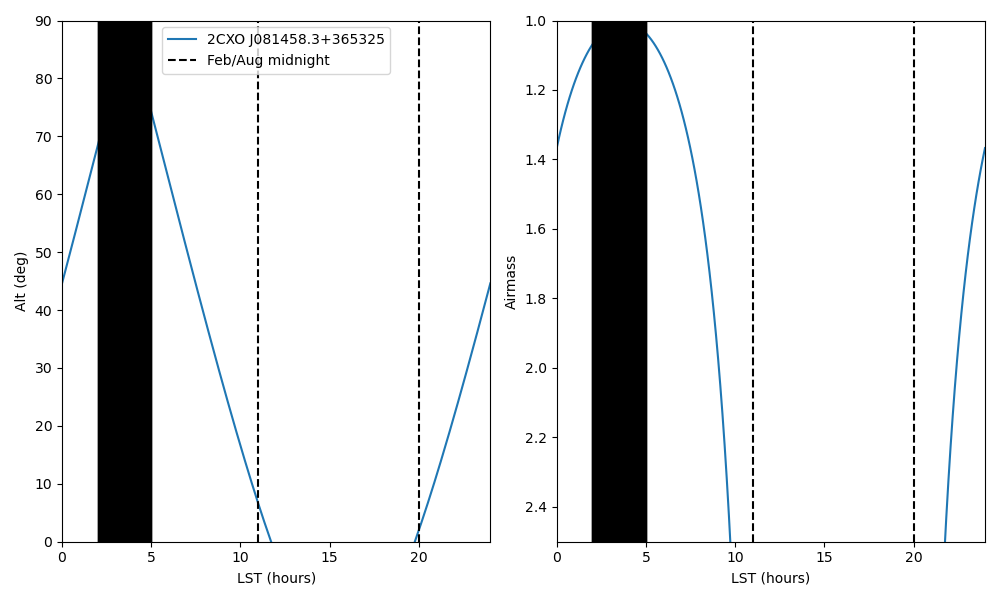
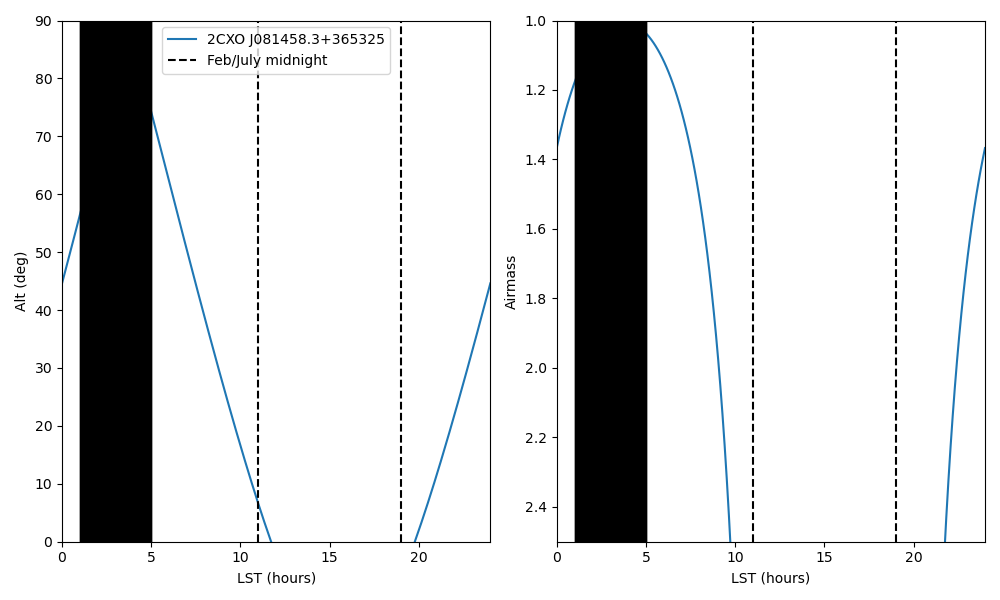
real true2plots

Changed region(s): [[0.062, 0.03, 0.124, 0.9], [0.558, 0.03, 0.589, 0.9], [0.217, 0.09, 0.341, 0.12]]

diff --git a/true2plots.py b/true2plots.py
@@ -87,10 +87,10 @@ for id, row in true2s.iterrows():
     # Limits
     axes[0].set_ylim(0,90)
     axes[0].set_xlim(0,24)
-    axes[0].axvline(11, color='black', linestyle='--', label='Feb/Aug midnight')
-    axes[0].axvline(20, color='black', linestyle='--')
-    axes[0].axvspan(2, 11-6, color='black', alpha=1, zorder=2)
-    axes[0].axvspan(2, 11-6, color='black', alpha=1, zorder=2)
+    axes[0].axvline(11, color='black', linestyle='--', label='Feb/July midnight')
+    axes[0].axvline(19, color='black', linestyle='--')
+    axes[0].axvspan(1, 11-6, color='black', alpha=1, zorder=2)
+    axes[0].axvspan(1, 11-6, color='black', alpha=1, zorder=2)
     # Text
     axes[0].legend()
     axes[0].set_xlabel("LST (hours)")
@@ -108,9 +108,9 @@ for id, row in true2s.iterrows():
     axes[1].set_ylabel("Airmass")
     axes[1].yaxis.set_inverted(True)
     
-    axes[1].axvline(11, color='black', linestyle='--', label='Feb/Aug midnight')
-    axes[1].axvline(20, color='black', linestyle='--')
-    axes[1].axvspan(2, 11-6, color='black', alpha=1, zorder=2)
-    axes[1].axvspan(2, 11-6, color='black', alpha=1, zorder=2)
+    axes[1].axvline(11, color='black', linestyle='--', label='Feb/July midnight')
+    axes[1].axvline(19, color='black', linestyle='--')
+    axes[1].axvspan(1, 11-6, color='black', alpha=1, zorder=2)
+    axes[1].axvspan(1, 11-6, color='black', alpha=1, zorder=2)
     plt.tight_layout()
     plt.savefig(f'{path}/{row["CXO Name"]}.png')
